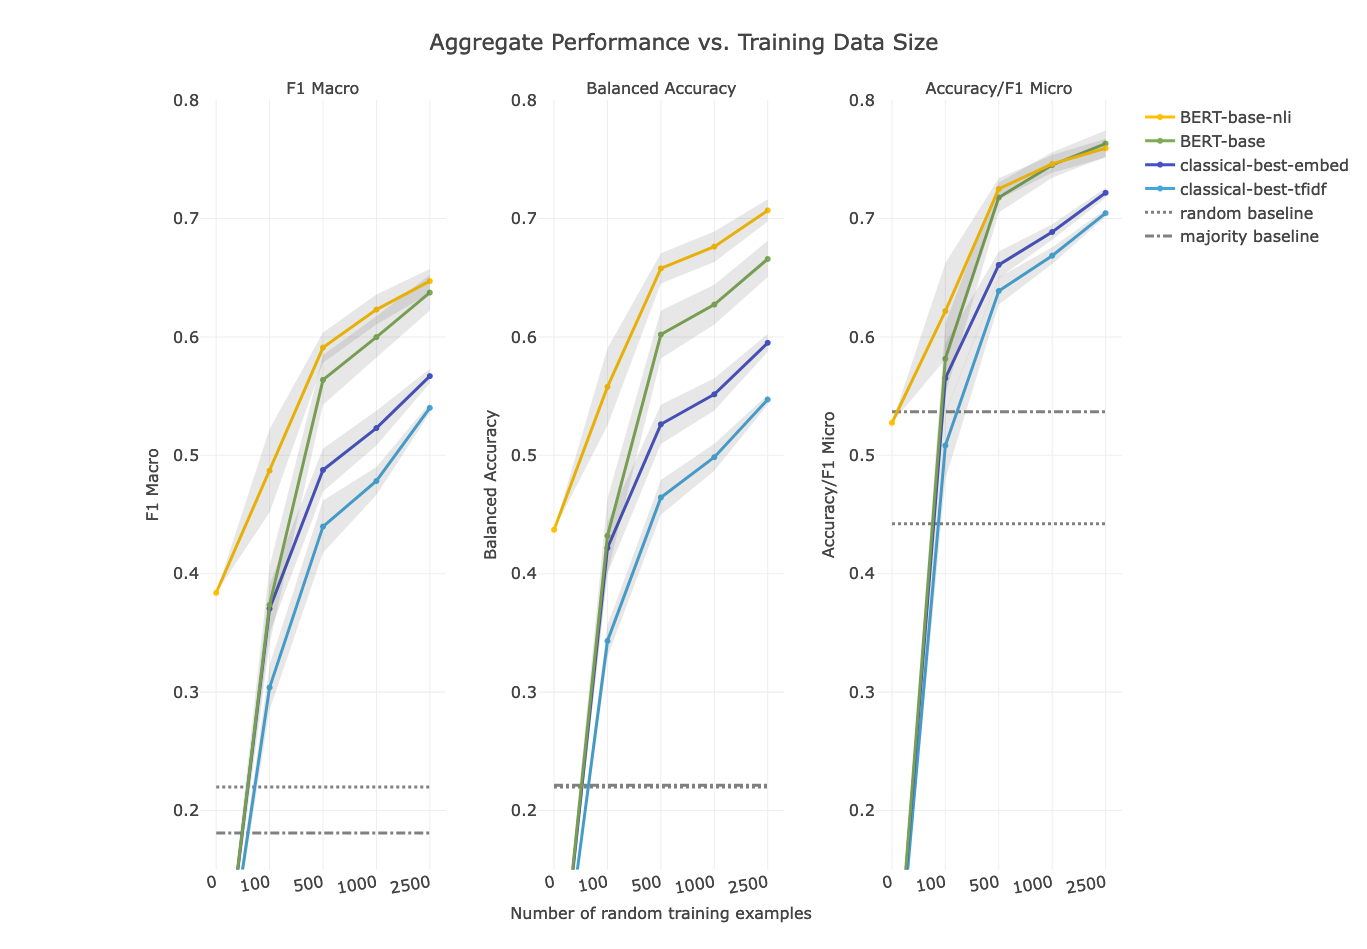
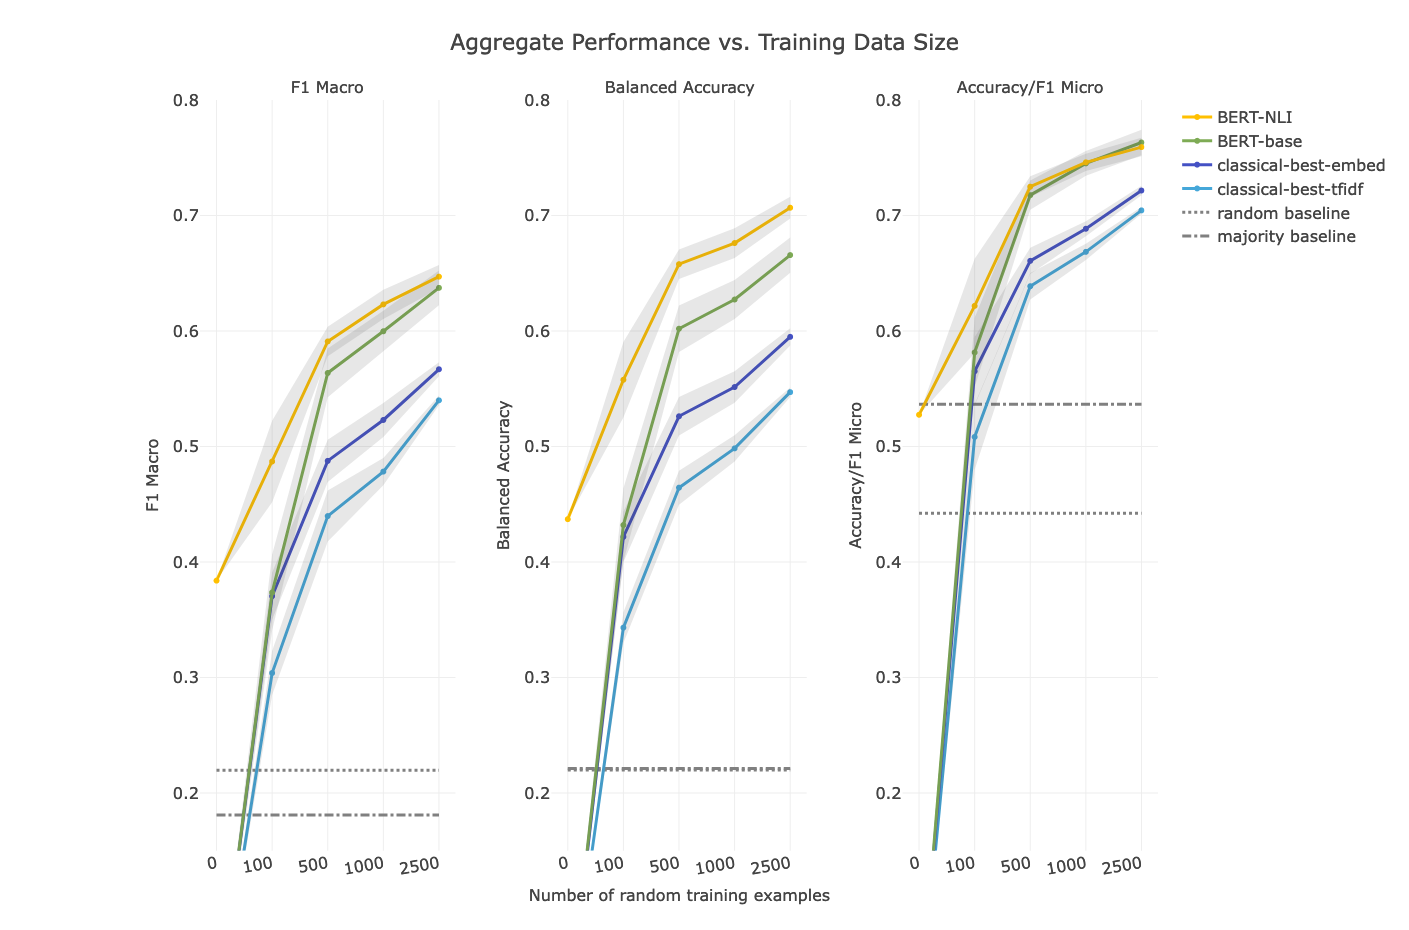
renamed "BERT-base-nli" to "BERT-NLI" in figures

diff --git a/data-viz.py b/data-viz.py
@@ -346,7 +346,7 @@ from plotly.subplots import make_subplots  # https://plotly.com/python/subplots/
 colors_hex = ["#45a7d9", "#4451c4", "#45a7d9", "#4451c4", "#7EAB55", "#FFC000"]  # order: logistic_tfidf, SVM_tfidf, logistic_embeddings, SVM_embeddings, deberta, deberta-nli   # must have same order as visual_data_dic
 simple_algo_names_dic = {"logistic_tfidf": "logistic_tfidf", "logistic_embeddings": "logistic_embeddings",
                          "SVM_tfidf": "SVM_tfidf", "SVM_embeddings": "SVM_embeddings",
-                         "deberta-v3-base": "BERT-base", "DeBERTa-v3-base-mnli-fever-docnli-ling-2c": "BERT-base-nli",
+                         "deberta-v3-base": "BERT-base", "DeBERTa-v3-base-mnli-fever-docnli-ling-2c": "BERT-NLI",
                          }
 
 ### iterate over all datasets
@@ -552,7 +552,7 @@ for i, metric_name in enumerate(metrics_all_name):
         df_metrics_mean.loc["classical-best-tfidf"] = [min(svm_metric, lr_metric) for svm_metric, lr_metric in zip(df_metrics_mean.loc["SVM_tfidf"], df_metrics_mean.loc["logistic_tfidf"])]
         df_metrics_mean.loc["classical-best-embed"] = [min(svm_metric, lr_metric) for svm_metric, lr_metric in zip(df_metrics_mean.loc["SVM_embeddings"], df_metrics_mean.loc["logistic_embeddings"])]
     # order rows
-    order_algos = ["SVM_tfidf", "logistic_tfidf", "SVM_embeddings", "logistic_embeddings", "classical-best-tfidf", "classical-best-embed", "BERT-base", "BERT-base-nli"]
+    order_algos = ["SVM_tfidf", "logistic_tfidf", "SVM_embeddings", "logistic_embeddings", "classical-best-tfidf", "classical-best-embed", "BERT-base", "BERT-NLI"]
     df_metrics_mean = df_metrics_mean.reindex(order_algos)
     df_metrics_mean.index.name = "Sample size /\nAlgorithm"
     df_metrics_mean_dic.update({metric_name: df_metrics_mean})
@@ -577,7 +577,7 @@ for i, metric_name in enumerate(metrics_all_name):
                                                         zip(df_metrics_mean_dic[metric_name].loc["SVM_embeddings"], df_metrics_mean_dic[metric_name].loc["logistic_embeddings"],
                                                             df_std_mean.loc["SVM_embeddings"], df_std_mean.loc["logistic_embeddings"])]
     # order rows
-    order_algos = ["SVM_tfidf", "logistic_tfidf", "SVM_embeddings", "logistic_embeddings", "classical-best-tfidf", "classical-best-embed", "BERT-base", "BERT-base-nli"]
+    order_algos = ["SVM_tfidf", "logistic_tfidf", "SVM_embeddings", "logistic_embeddings", "classical-best-tfidf", "classical-best-embed", "BERT-base", "BERT-NLI"]
     df_std_mean = df_std_mean.reindex(order_algos)
     df_std_mean.index.name = "Sample size /\nAlgorithm"
     df_std_mean_dic.update({metric_name: df_std_mean})
@@ -589,9 +589,9 @@ for i, metric_name in enumerate(metrics_all_name):
     df_metrics_difference = pd.DataFrame(data={
         "BERT-base vs. classical-best-tfidf": df_metrics_mean_dic[metric_name].loc["BERT-base"] - df_metrics_mean_dic[metric_name].loc["classical-best-tfidf"],
         "BERT-base vs. classical-best-embed": df_metrics_mean_dic[metric_name].loc["BERT-base"] - df_metrics_mean_dic[metric_name].loc["classical-best-embed"],
-        "BERT-base-nli vs. classical-best-tfidf": df_metrics_mean_dic[metric_name].loc["BERT-base-nli"] - df_metrics_mean_dic[metric_name].loc["classical-best-tfidf"],
-        "BERT-base-nli vs. classical-best-embed": df_metrics_mean_dic[metric_name].loc["BERT-base-nli"] - df_metrics_mean_dic[metric_name].loc["classical-best-embed"],
-        "BERT-base-nli vs. BERT-base": df_metrics_mean_dic[metric_name].loc["BERT-base-nli"] - df_metrics_mean_dic[metric_name].loc["BERT-base"],
+        "BERT-NLI vs. classical-best-tfidf": df_metrics_mean_dic[metric_name].loc["BERT-NLI"] - df_metrics_mean_dic[metric_name].loc["classical-best-tfidf"],
+        "BERT-NLI vs. classical-best-embed": df_metrics_mean_dic[metric_name].loc["BERT-NLI"] - df_metrics_mean_dic[metric_name].loc["classical-best-embed"],
+        "BERT-NLI vs. BERT-base": df_metrics_mean_dic[metric_name].loc["BERT-NLI"] - df_metrics_mean_dic[metric_name].loc["BERT-base"],
        }).transpose()
     #df_metrics_difference = df_metrics_difference.applymap(lambda x: f"+{round(x, 2)}" if x > 0 else round(x, 2))
     #df_metrics_difference = df_metrics_difference.applymap(lambda x: round(x, 2))
@@ -603,7 +603,7 @@ for i, metric_name in enumerate(metrics_all_name):
 
 #### Visualisation of overall average performance
 colors_hex = ["#45a7d9", "#4451c4", "#7EAB55", "#FFC000"]  # order: logistic_tfidf, SVM_tfidf, logistic_embeddings, SVM_embeddings, deberta, deberta-nli   # must have same order as visual_data_dic
-algo_names_comparison = ["classical-best-tfidf", "classical-best-embed", "BERT-base", "BERT-base-nli"]
+algo_names_comparison = ["classical-best-tfidf", "classical-best-embed", "BERT-base", "BERT-NLI"]
 
 ### average random baseline, changes depending on sample size, because less datasets included in higher sample size
 ## majority
@@ -966,7 +966,7 @@ fig_compare.show(renderer="browser")
 
 ### visualise performance difference
 """fig_difference = go.Figure()
-algo_names_difference = ["BERT-base vs. classical-best-tfidf", "BERT-base-nli vs. classical-best-tfidf", "BERT-base vs. classical-best-embed", "BERT-base-nli vs. classical-best-embed", "BERT-base-nli vs. BERT-base"]
+algo_names_difference = ["BERT-base vs. classical-best-tfidf", "BERT-NLI vs. classical-best-tfidf", "BERT-base vs. classical-best-embed", "BERT-NLI vs. classical-best-embed", "BERT-NLI vs. BERT-base"]
 colors_hex_difference = ["#16bfb4", "#168fbf", "#bfa616", "#bf7716", "#bf16bb"]
 
 
